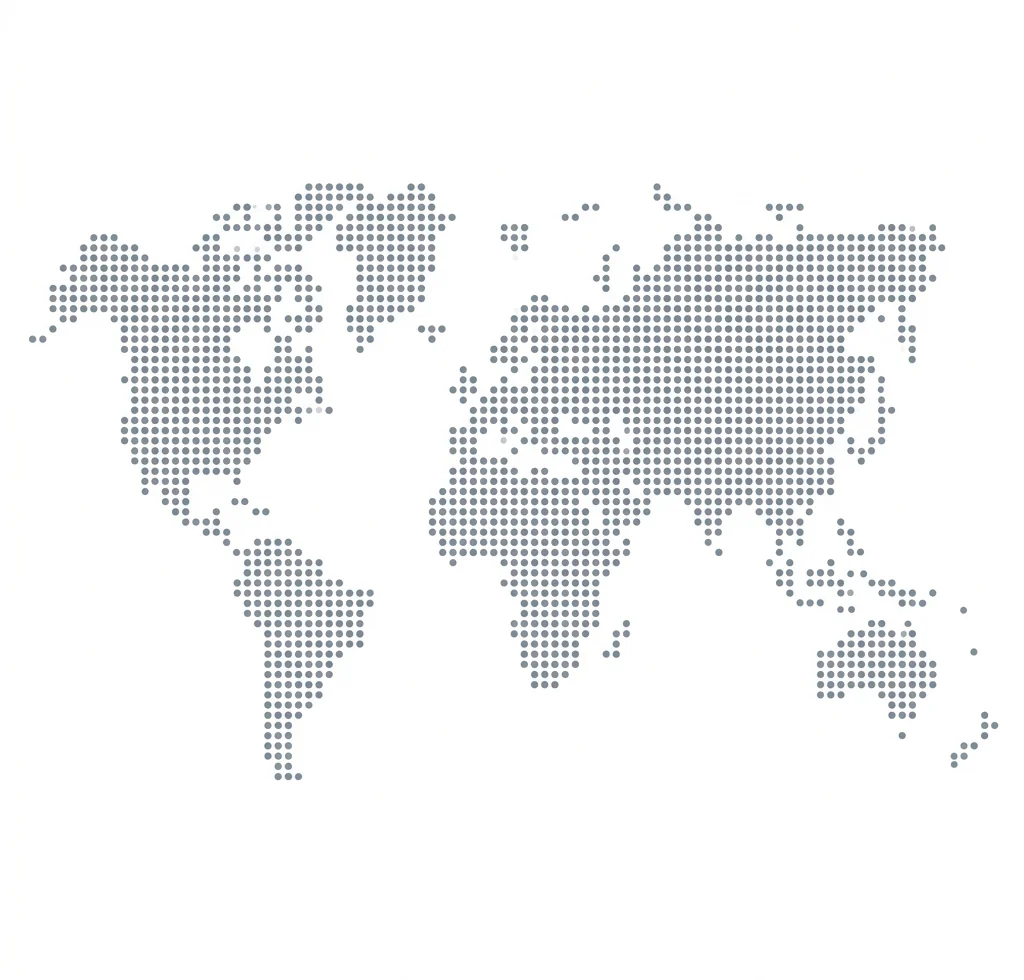
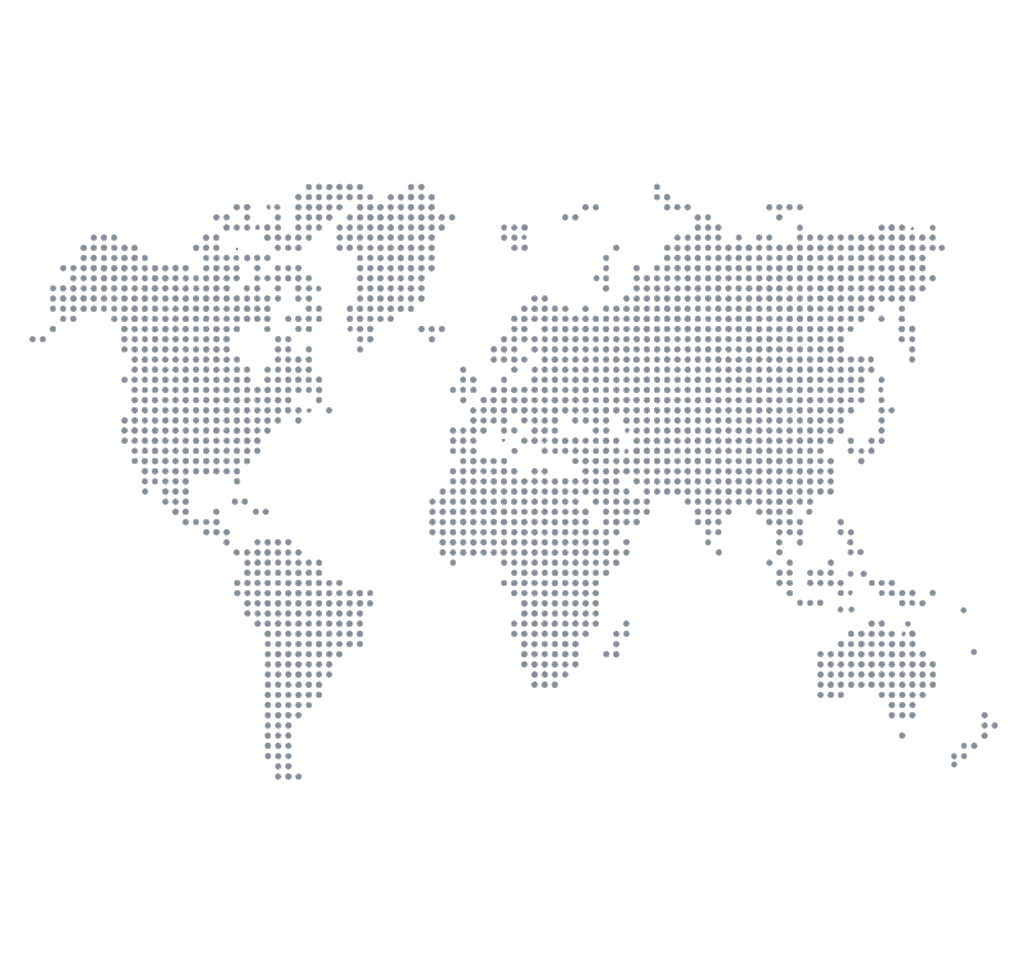
commit0904

diff --git a/2026/en/assets/css/english.css b/2026/en/assets/css/english.css
@@ -37,8 +37,7 @@ body {
 .en-site .mobile-nav-link,
 .en-site .btn,
 .en-site .pill,
-.en-site .page-breadcrumb a,
-.en-site .footer a {
+.en-site .page-breadcrumb a {
   white-space: nowrap;
 }
 
@@ -57,7 +56,7 @@ body {
   max-width: 13ch;
   margin-block-end: var(--space-lg);
   color: var(--color-ink);
-  font-size: var(--text-display);
+  font-size: clamp(2.5rem, 4.1vw + 0.45rem, 4.5rem);
   font-weight: 700;
   line-height: 1.01;
   letter-spacing: -0.025em;
@@ -118,6 +117,10 @@ body {
   position: relative;
 }
 
+.en-site .en-countries {
+  background: #fafdff;
+}
+
 .en-site .en-countries .section-title {
   max-width: 25ch;
   margin-block-end: 0;
@@ -155,10 +158,11 @@ body {
 }
 
 .en-site .en-global-partner h2 {
-  max-width: 18ch;
   color: var(--color-ink);
   font-family: var(--font-display);
   font-weight: 700;
+  font-size: 2.5rem;
+  letter-spacing: -0.03em;
 }
 
 .en-site .en-global-partner .bridge-copy > p {
@@ -167,6 +171,7 @@ body {
   font-size: var(--text-base);
   line-height: 1.65;
 }
+
 
 .en-site .en-global-partner .stat-num {
   font-family: var(--font-display);
@@ -191,47 +196,6 @@ body {
   color: var(--color-ink);
   font-family: var(--font-body);
   white-space: nowrap;
-}
-
-.en-about-band {
-  padding-block: var(--space-3xl);
-  background: var(--color-paper-2);
-  color: var(--color-ink);
-}
-
-.en-about-grid {
-  display: grid;
-  grid-template-columns: minmax(0, 0.85fr) minmax(0, 1.15fr);
-  gap: var(--space-3xl);
-  align-items: center;
-}
-
-.en-about-copy h2 {
-  max-width: 15ch;
-  margin-block-end: var(--space-lg);
-  font-size: clamp(2.2rem, 4vw, 3.5rem);
-  line-height: 1.08;
-  letter-spacing: -0.04em;
-}
-
-.en-about-copy p {
-  max-width: 62ch;
-  color: var(--color-ink-2);
-  line-height: 1.7;
-}
-
-.en-about-copy .btn {
-  margin-block-start: var(--space-xl);
-}
-
-.en-about-image {
-  min-width: 0;
-}
-
-.en-about-image img {
-  width: 100%;
-  height: auto;
-  border-radius: var(--radius-lg);
 }
 
 .en-site .page-header h1 {
@@ -359,13 +323,8 @@ body {
     padding-inline-start: var(--space-lg);
   }
 
-  .en-site .quick-row,
-  .en-about-grid {
+  .en-site .quick-row {
     grid-template-columns: minmax(0, 1fr);
-  }
-
-  .en-about-grid {
-    gap: var(--space-2xl);
   }
 
   .en-site .en-global-partner .bridge-inner {
@@ -403,7 +362,6 @@ body {
     width: 100%;
   }
 
-  .en-about-band,
   .en-site .en-countries {
     padding-block: var(--space-2xl);
   }

diff --git a/2026/en/tokens.css b/2026/en/tokens.css
@@ -12,7 +12,7 @@
   --color-focus: oklch(42% 0.17 252);
   --color-error: oklch(48% 0.18 25);
   --color-success: oklch(43% 0.12 155);
-  --font-display: "Source Serif 4", Georgia, serif;
+  --font-display: "Inter", sans-serif;
   --font-body: "Inter", sans-serif;
   --space-xs: 0.5rem;
   --space-sm: 0.75rem;

diff --git a/2026/assets/css/main.css b/2026/assets/css/main.css
@@ -520,7 +520,7 @@
       height: 100%;
       left: 0;
       top: 0;
-      background-image: url('../images/first_worldmap.webp');
+      background-image: url('../images/first_worldmap.png');
       background-repeat: no-repeat;
       background-position: 76% center;
       background-size: contain;

diff --git a/2026/en/include/footer.php b/2026/en/include/footer.php
@@ -17,12 +17,14 @@
               <div class="contact-item"><div class="contact-item-label">Email</div><div class="contact-item-val email-val"><a href="mailto:lanloop.lucky@msa.hinet.net">lanloop.lucky@msa.hinet.net</a></div></div>
             </div>
             <div class="footer-locations">
-              <h2>Office</h2>
-              <p class="location-address"><a href="https://maps.google.com/?q=Rm.%20A5%2C%207F.%2C%20No.%20689-28%2C%20Xiaodong%20Rd.%2C%20Yongkang%20Dist.%2C%20Tainan%20City%20710%2C%20Taiwan" target="_blank" rel="noopener noreferrer">Rm. A5, 7F., No. 689-28, Xiaodong Rd., Yongkang Dist., Tainan City 710, Taiwan</a></p>
-              <div class="footer-page-links" aria-label="English pages">
-                <a href="en/about.php">About Us</a>
-                <a href="en/services.php">Services</a>
-                <a href="en/contact.php">Contact Us</a>
+              <h2 style="margin-block-end: var(--space-sm);">Address</h2>
+              <p class="location-address"><a href="https://maps.google.com/?q=Rm.%20A5%2C%207F.%2C%20No.%20689-28%2C%20Xiaodong%20Rd.%2C%20Yongkang%20Dist.%2C%20Tainan%20City%20710%2C%20Taiwan" target="_blank" rel="noopener noreferrer">Rm. A5, 7F., No. 689-28, Xiaodong Rd., Yongkang Dist., Tainan City 710, Taiwan (Google Map)</a></p>
+              <div class="mapbox-preview" role="region" aria-label="Office location map">
+                <iframe
+                  src="https://www.google.com/maps/embed?pb=!1m18!1m12!1m3!1d3672.6796452068916!2d120.23717807531305!3d22.998804879190427!2m3!1f0!2f0!3f0!3m2!1i1024!2i768!4f13.1!3m3!1m2!1s0x346e76c8a9fc9061%3A0xa8917eb27346f445!2zNzEw6Ie65Y2X5biC5rC45bq35Y2A5Lit6I-v6YeM5bCP5p2x6LevNjg55LmLMjnomZ83IGE1!5e0!3m2!1szh-TW!2stw!4v1787543933913!5m2!1szh-TW!2stw"
+                  width="600" height="450" style="border:0;" allowfullscreen="" loading="lazy"
+                  title="Office location map"
+                  referrerpolicy="strict-origin-when-cross-origin"></iframe>
               </div>
             </div>
           </div>

diff --git a/2026/en/index.php b/2026/en/index.php
@@ -144,18 +144,6 @@ include dirname(__FILE__) . '/include/header.php';
     </div>
   </section>
 
-  <section class="en-about-band" aria-labelledby="about-title">
-    <div class="container en-about-grid">
-      <div class="en-about-copy reveal">
-        <h2 id="about-title">Based in Tainan. Working across borders.</h2>
-        <p>Established in 1993, Lan Loop International Patent and Trademark Office provides professional intellectual property services for domestic and international matters. We help clients understand prior rights, reduce avoidable research and filing costs, and improve filing strategies before an application is submitted.</p>
-        <a class="btn btn-primary" href="en/about.php">About Lan Loop <span class="btn-arrow" aria-hidden="true">&rarr;</span></a>
-      </div>
-      <figure class="en-about-image reveal reveal-delay-1">
-        <img src="assets/images/page2_img1.webp" alt="Lan Loop International Patent and Trademark Office" width="338" height="250" loading="lazy" decoding="async">
-      </figure>
-    </div>
-  </section>
 </main>
 
 <?php include dirname(__FILE__) . '/include/footer.php'; ?>

diff --git a/2026/en/include/header.php b/2026/en/include/header.php
@@ -34,7 +34,7 @@ $shareImage = $siteUrl . '/assets/images/og-share.jpg';
   <meta name="twitter:card" content="summary_large_image">
   <link rel="preconnect" href="https://fonts.googleapis.com">
   <link rel="preconnect" href="https://fonts.gstatic.com" crossorigin>
-  <link href="https://fonts.googleapis.com/css2?family=Inter:wght@400;700&amp;family=Source+Serif+4:wght@600;700&amp;display=swap" rel="stylesheet">
+  <link href="https://fonts.googleapis.com/css2?family=Inter:wght@400;700&amp;display=swap" rel="stylesheet">
   <link rel="stylesheet" href="assets/css/main.css">
   <link rel="stylesheet" href="assets/css/header.css">
   <link rel="stylesheet" href="assets/css/footer.css">
